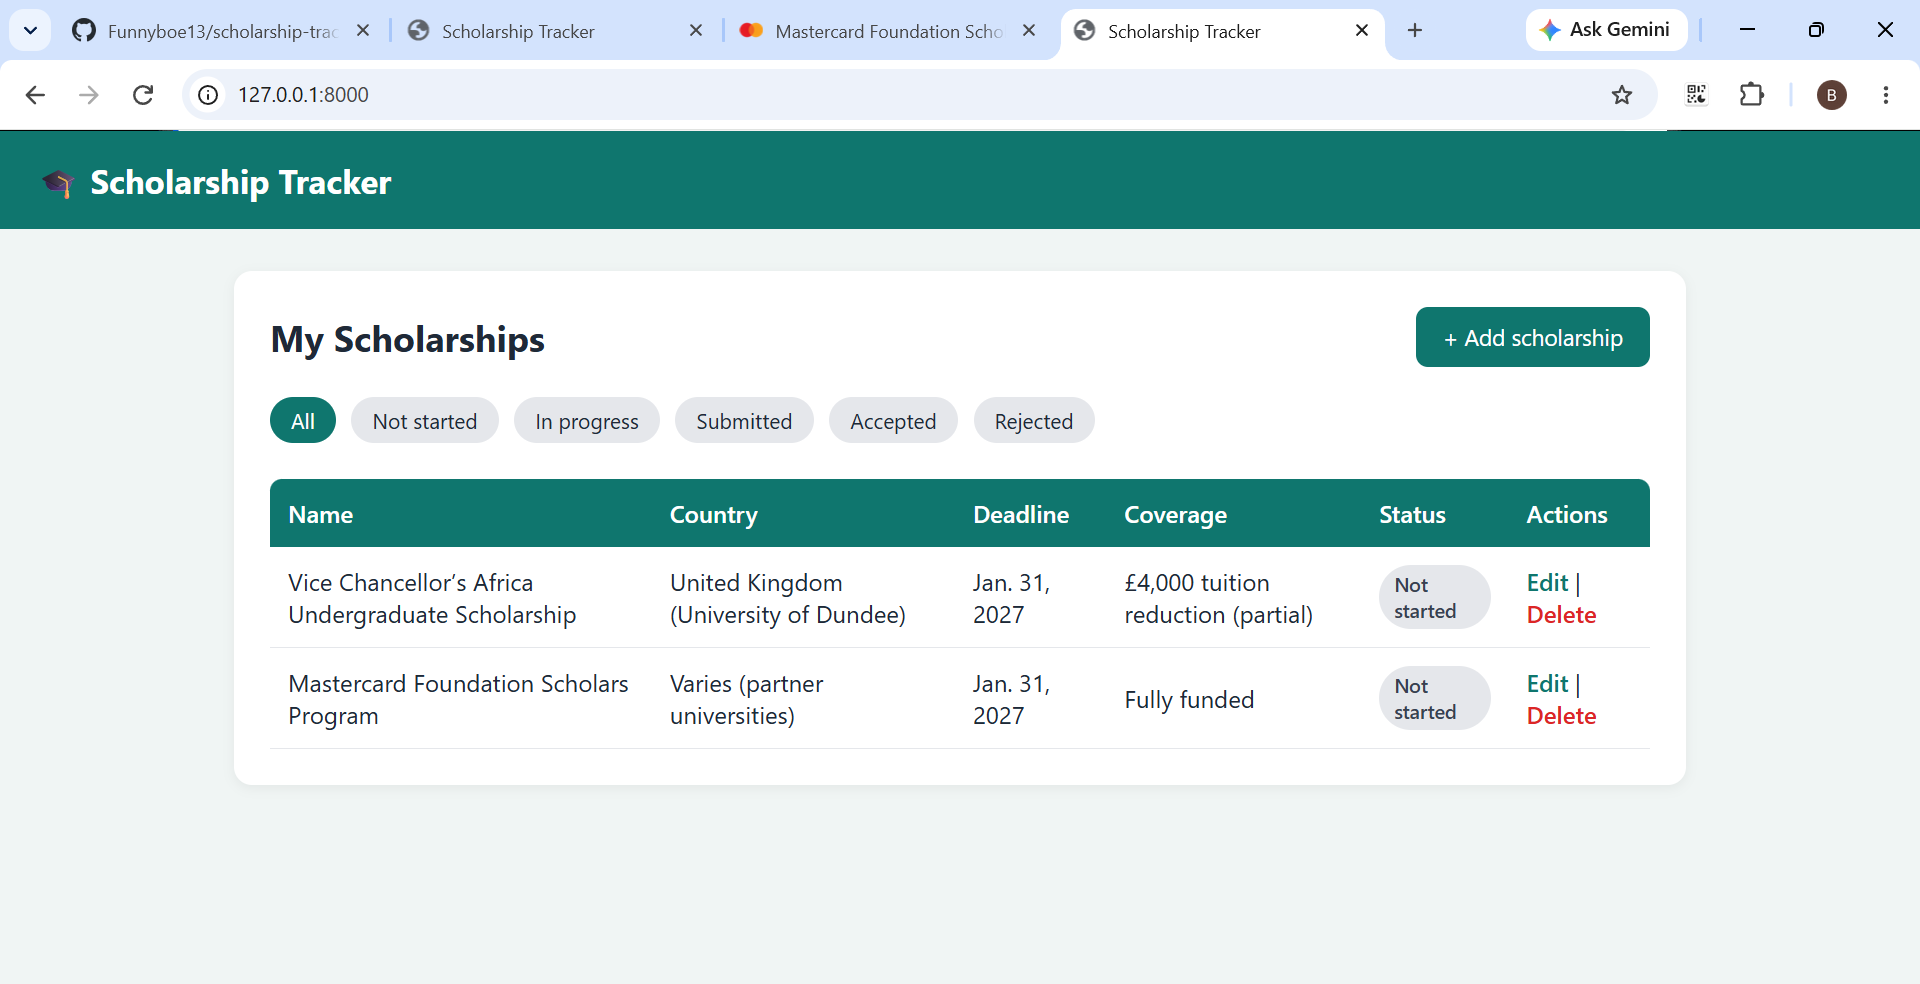
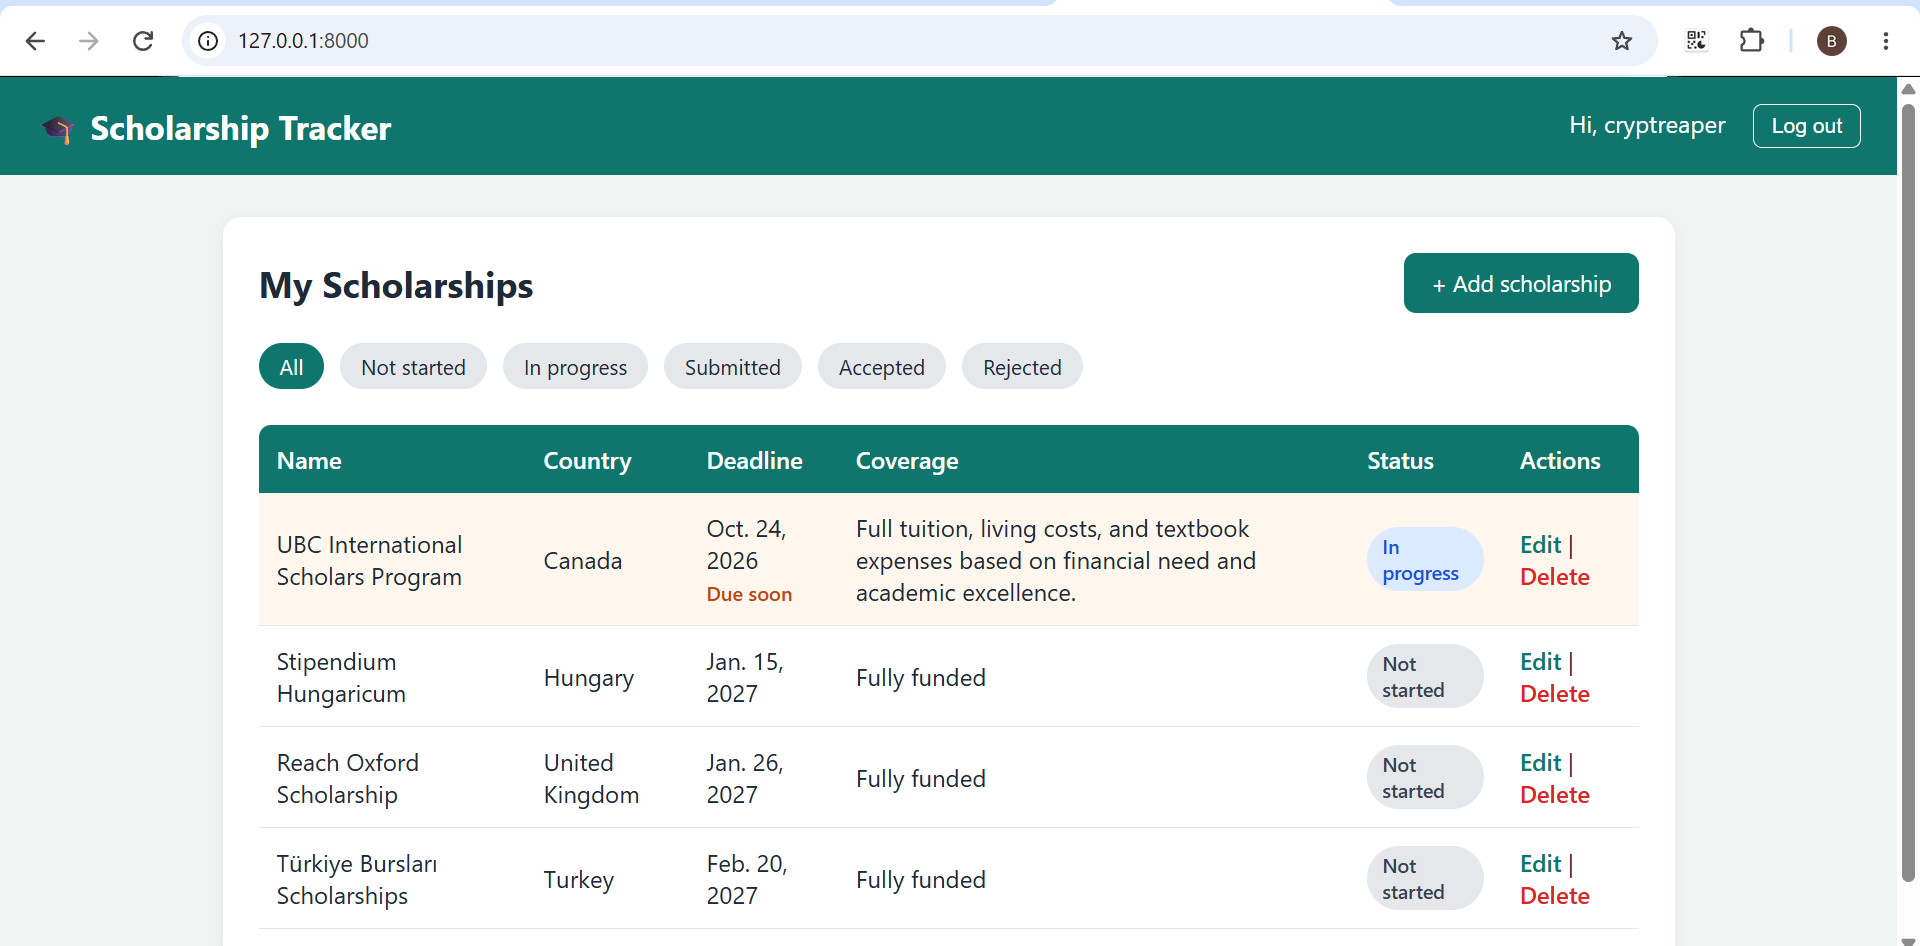
Update README for user accounts

diff --git a/README.md b/README.md
@@ -1,17 +1,20 @@
 # Scholarship Tracker
 
-A Django web app for keeping track of scholarship applications in one place, so no deadline gets missed.
+A Django web app for keeping track of scholarship applications in one place, so no deadline gets missed. Each user creates an account and gets their own private list.
 
-![Screenshot](Screenshot.png)
+![Screenshot](screenshot.png)
 
 ## Features
 
+- User accounts: sign up, log in, and log out
+- Every user sees only their own scholarships, and nobody can edit or delete someone else's
+- Welcome popup after logging in or signing up, and confirmation popups when adding, editing, or deleting
 - Add, edit, and delete scholarships
 - Track name, country, deadline, coverage, link, status, and notes
 - Status badges: Not started, In progress, Submitted, Accepted, Rejected
 - Filter the list by status
-- Highlights scholarships due within 7 days, and ones whose deadline has passed
-- Admin panel for managing data
+- Rows are highlighted when a deadline is within 7 days or has already passed
+- Admin panel for managing users and data
 
 ## Built with
 
@@ -54,13 +57,13 @@ A Django web app for keeping track of scholarship applications in one place, so 
    python manage.py runserver
 ```
 
-6. Open http://127.0.0.1:8000 in your browser
+6. Open http://127.0.0.1:8000, create an account with **Sign up**, and start adding scholarships
 
 ## Future improvements
 
-- User accounts, so each person has their own list
 - Email reminders before deadlines
 - Search by name or country
+- Live deployment
 
 ## Author
 
